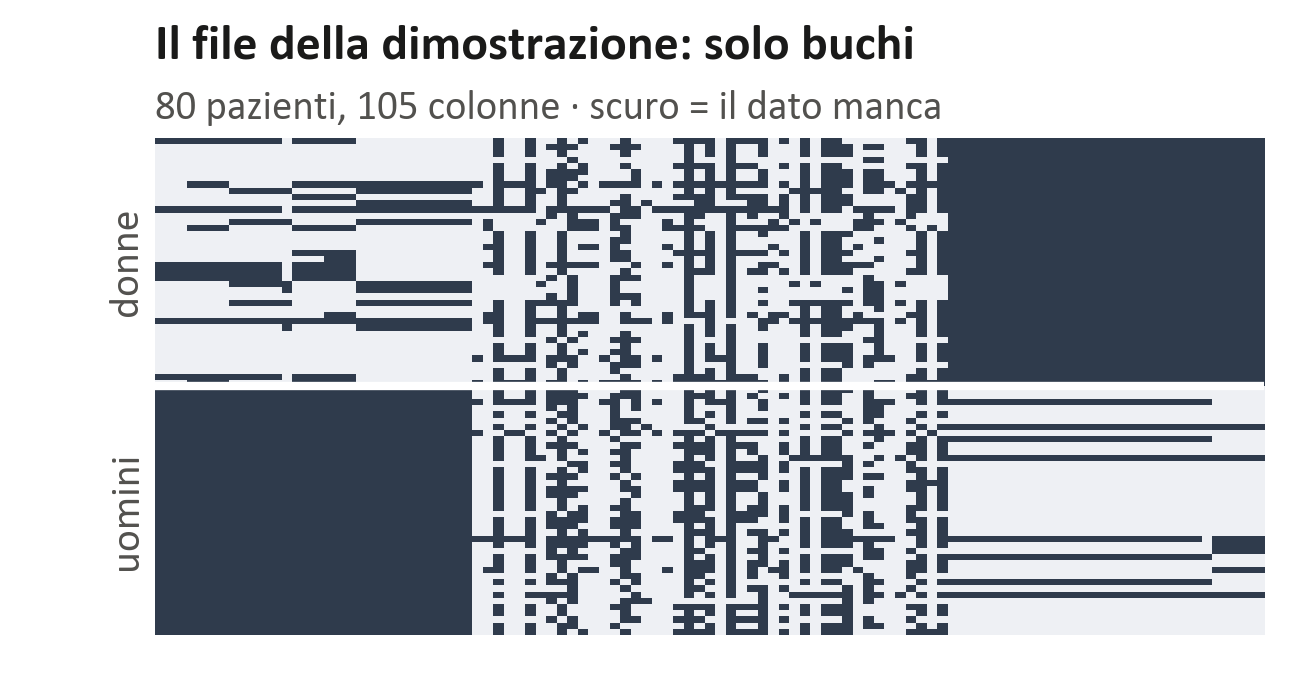
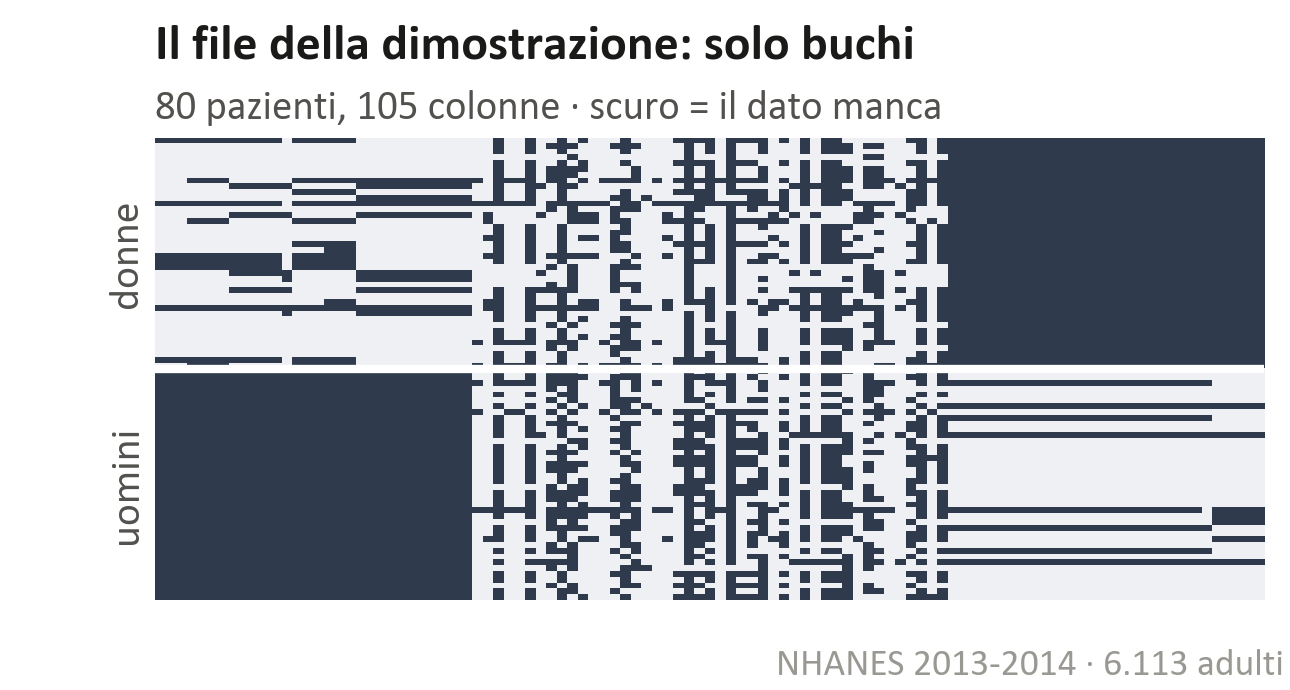
Nota della fonte su quattro figure
F5B e S27: curve teoriche; S13: NHANES 2013-2014, 6.113 adulti;
F17: esempio costruito. Come nelle altre figure, in grigio sotto il grafico.

Changed region(s): [[0.093, 0.213, 0.9922, 1.0], [0.093, 0.6391, 0.124, 0.8217]]

diff --git a/figure/genera_immagini_slide.py b/figure/genera_immagini_slide.py
@@ -331,7 +331,7 @@ def s13():
     righe = np.concatenate([rng.choice(np.where(y == 1)[0], 40, replace=False), rng.choice(np.where(y == 0)[0], 40, replace=False)])
     X = M.iloc[righe][col].values.astype(float)
     fig = plt.figure(figsize=(4.3, 2.3))
-    ax = fig.add_axes([0.12, 0.08, 0.86, 0.72])
+    ax = fig.add_axes([0.12, 0.13, 0.86, 0.67])
     ax.imshow(X, cmap=matplotlib.colors.ListedColormap(["#eef0f4", "#2f3b4c"]), aspect="auto", interpolation="nearest")
     ax.set_xticks([]); ax.set_yticks([]); ax.grid(False)
     for s in ax.spines.values():
@@ -341,6 +341,7 @@ def s13():
     ax.text(-1.5, 59.5, "uomini", rotation=90, ha="right", va="center", fontsize=10, color=INK2)
     fig.text(0.12, 0.965, "Il file della dimostrazione: solo buchi", fontsize=12, fontweight="bold", color=INK, va="top")
     fig.text(0.12, 0.87, "80 pazienti, 105 colonne · scuro = il dato manca", fontsize=9.8, color=INK2, va="top")
+    nota(fig, "NHANES 2013-2014 · 6.113 adulti")
     salva(fig, "S13_matrice_buchi")
 
 
@@ -579,6 +580,7 @@ def s27():
                bbox_to_anchor=(0.995, 0.8), ncol=2, handlelength=1.4, columnspacing=1.0, fontsize=9.3)
     ax.text(0, -0.07, "← soglia più indulgente", transform=ax.transAxes, fontsize=9.5, color=INK2, va="top")
     ax.text(1, -0.07, "più severa →", transform=ax.transAxes, fontsize=9.5, color=INK2, va="top", ha="right")
+    nota(fig, "Curve teoriche con le frequenze del caso 3")
     salva(fig, "S27_taratura")
     return sa, sb
 

diff --git a/figure/genera_figure.py b/figure/genera_figure.py
@@ -135,6 +135,7 @@ def f5b():
     ax.set_ylabel("Rischio vero")
     ax.set_title("Come si legge l'intercetta")
     sottotitolo(ax, "Stesso rischio dichiarato, tre realtà diverse")
+    nota(fig, "Curve teoriche")
     salva(fig, "F5B_intercetta")
 
 
@@ -367,7 +368,7 @@ def f17():
     sottotitolo(axv, "Valore predittivo: diverso a ogni soglia")
 
     legenda(fig, [("Gruppo A · malattia nel 20%", BLU), ("Gruppo B · malattia nel 5%", ORO)])
-    nota(fig, "Stesso sistema per i due gruppi · cambia solo quanto è frequente la malattia")
+    nota(fig, "Esempio costruito · stesso sistema per i due gruppi, cambia solo quanto è frequente la malattia")
     salva(fig, "F17_impossibilita")
     return s0, vA0, vB0
 
